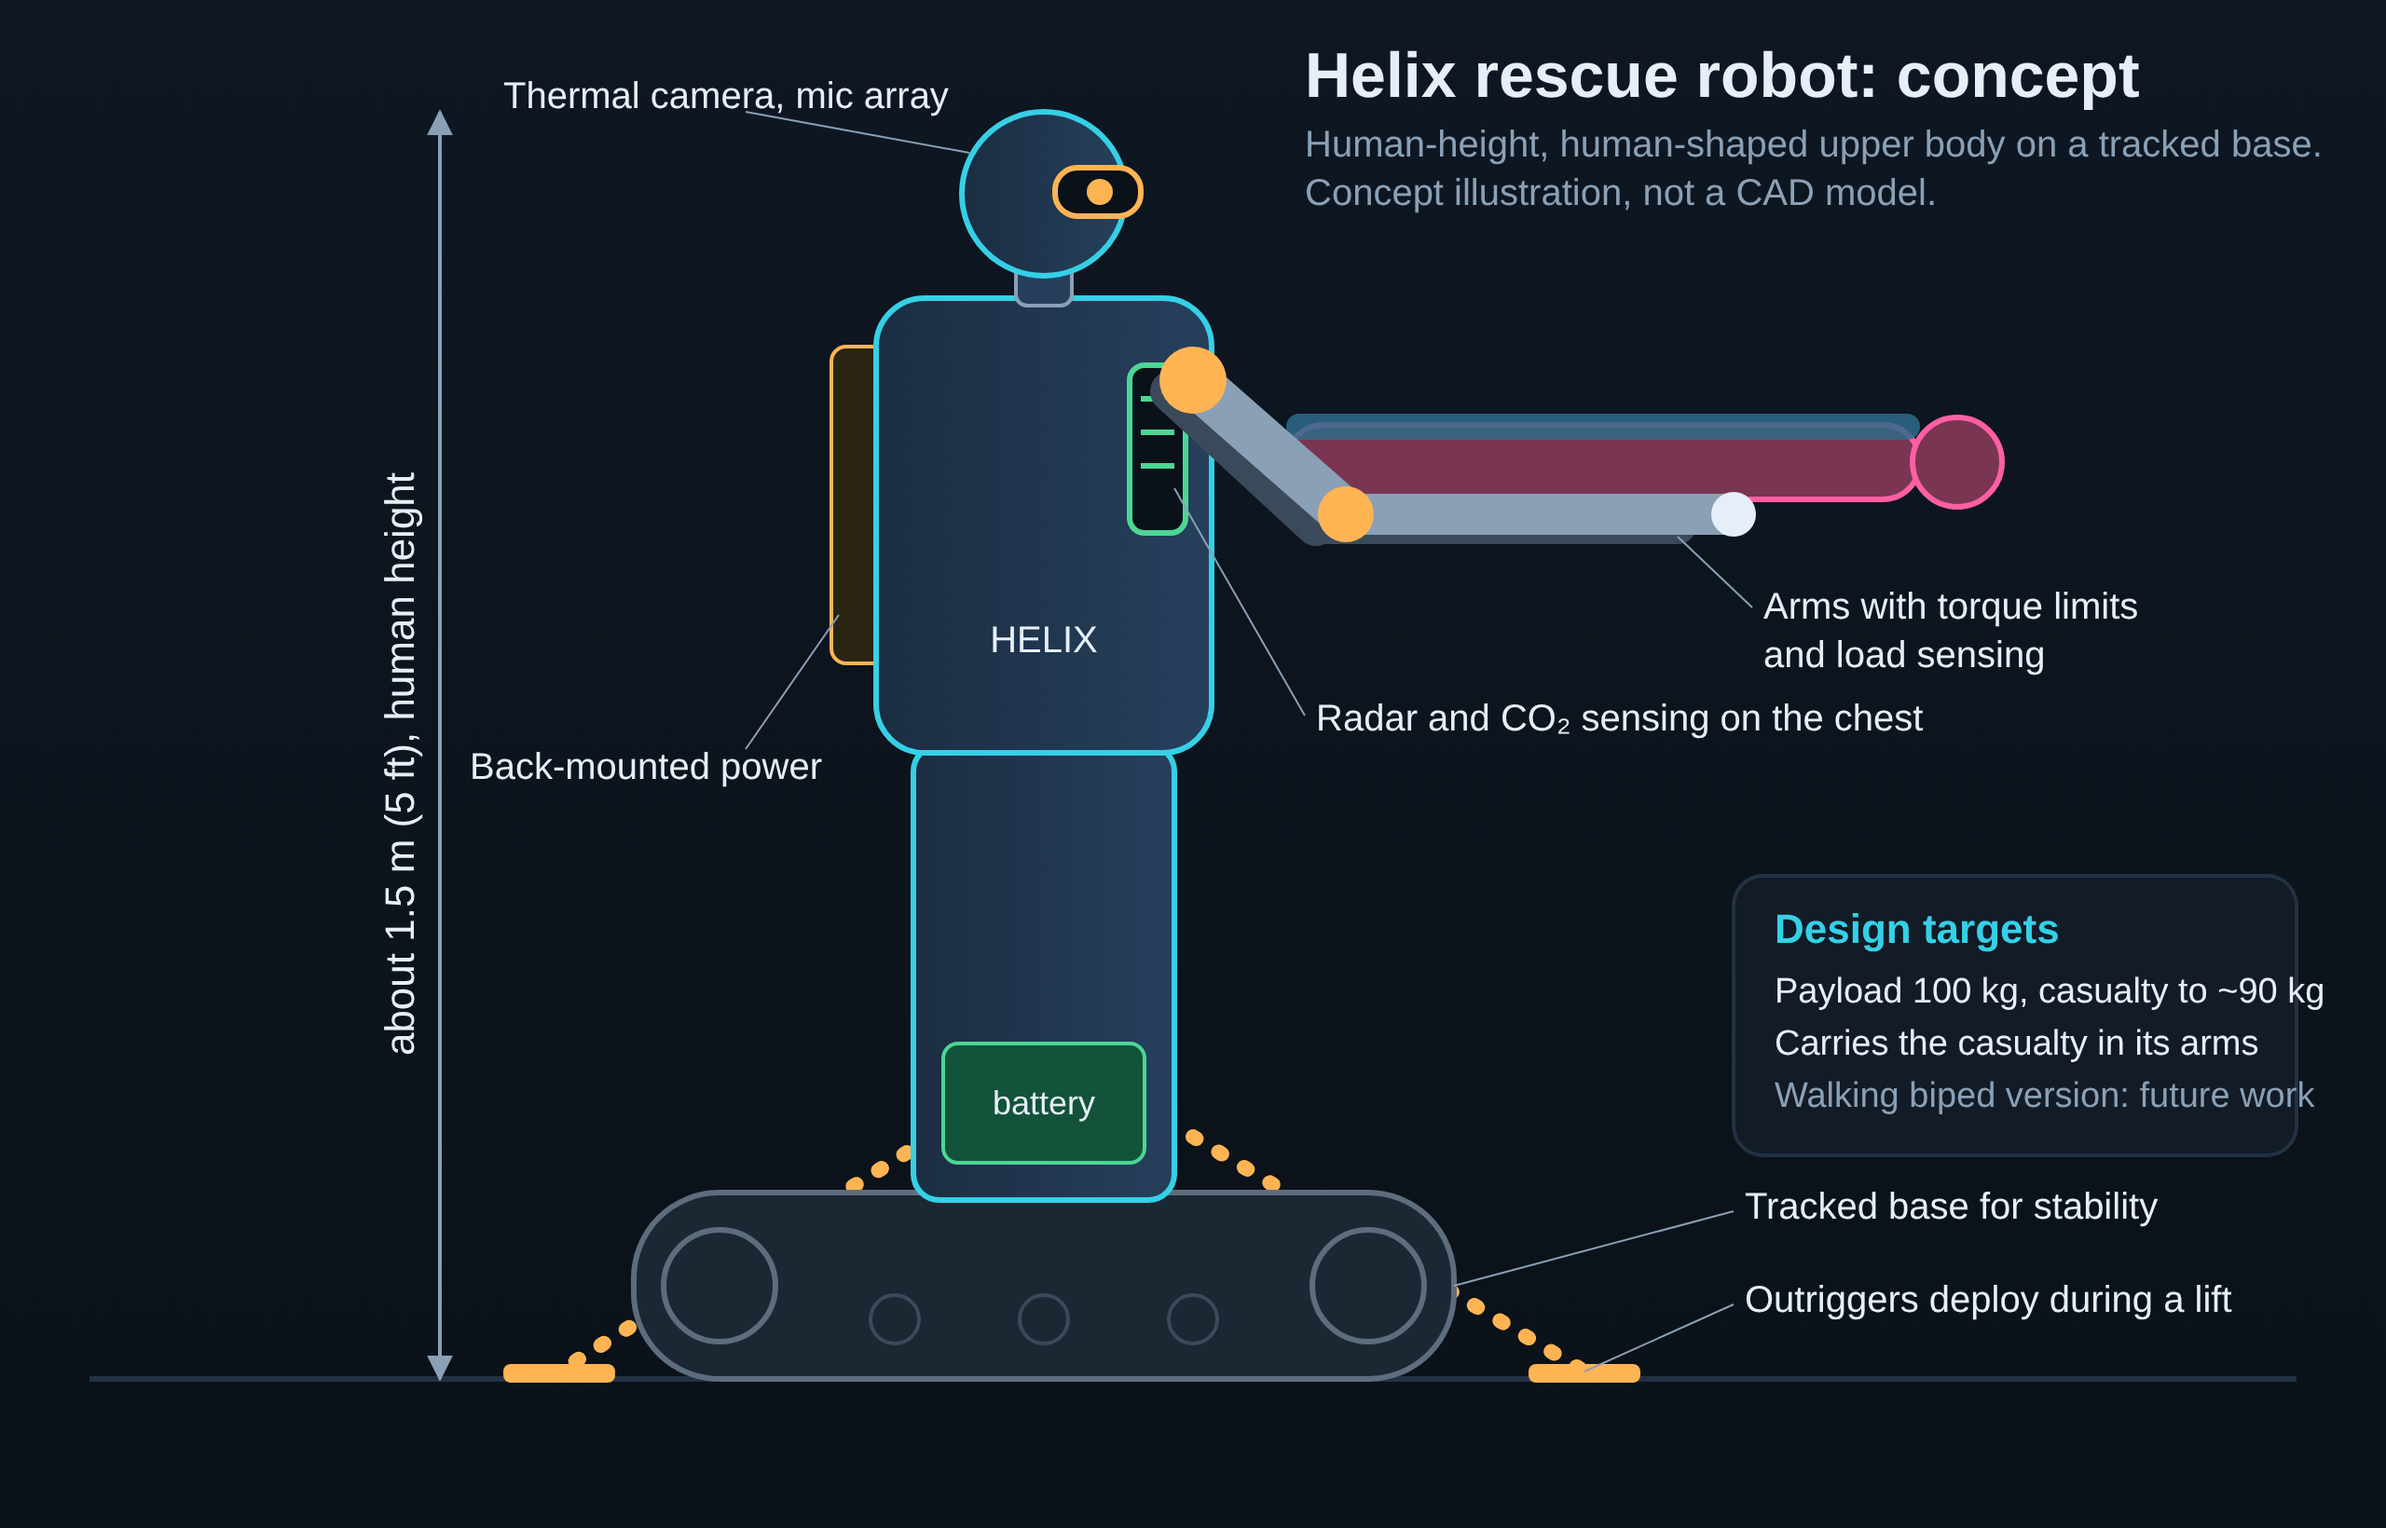
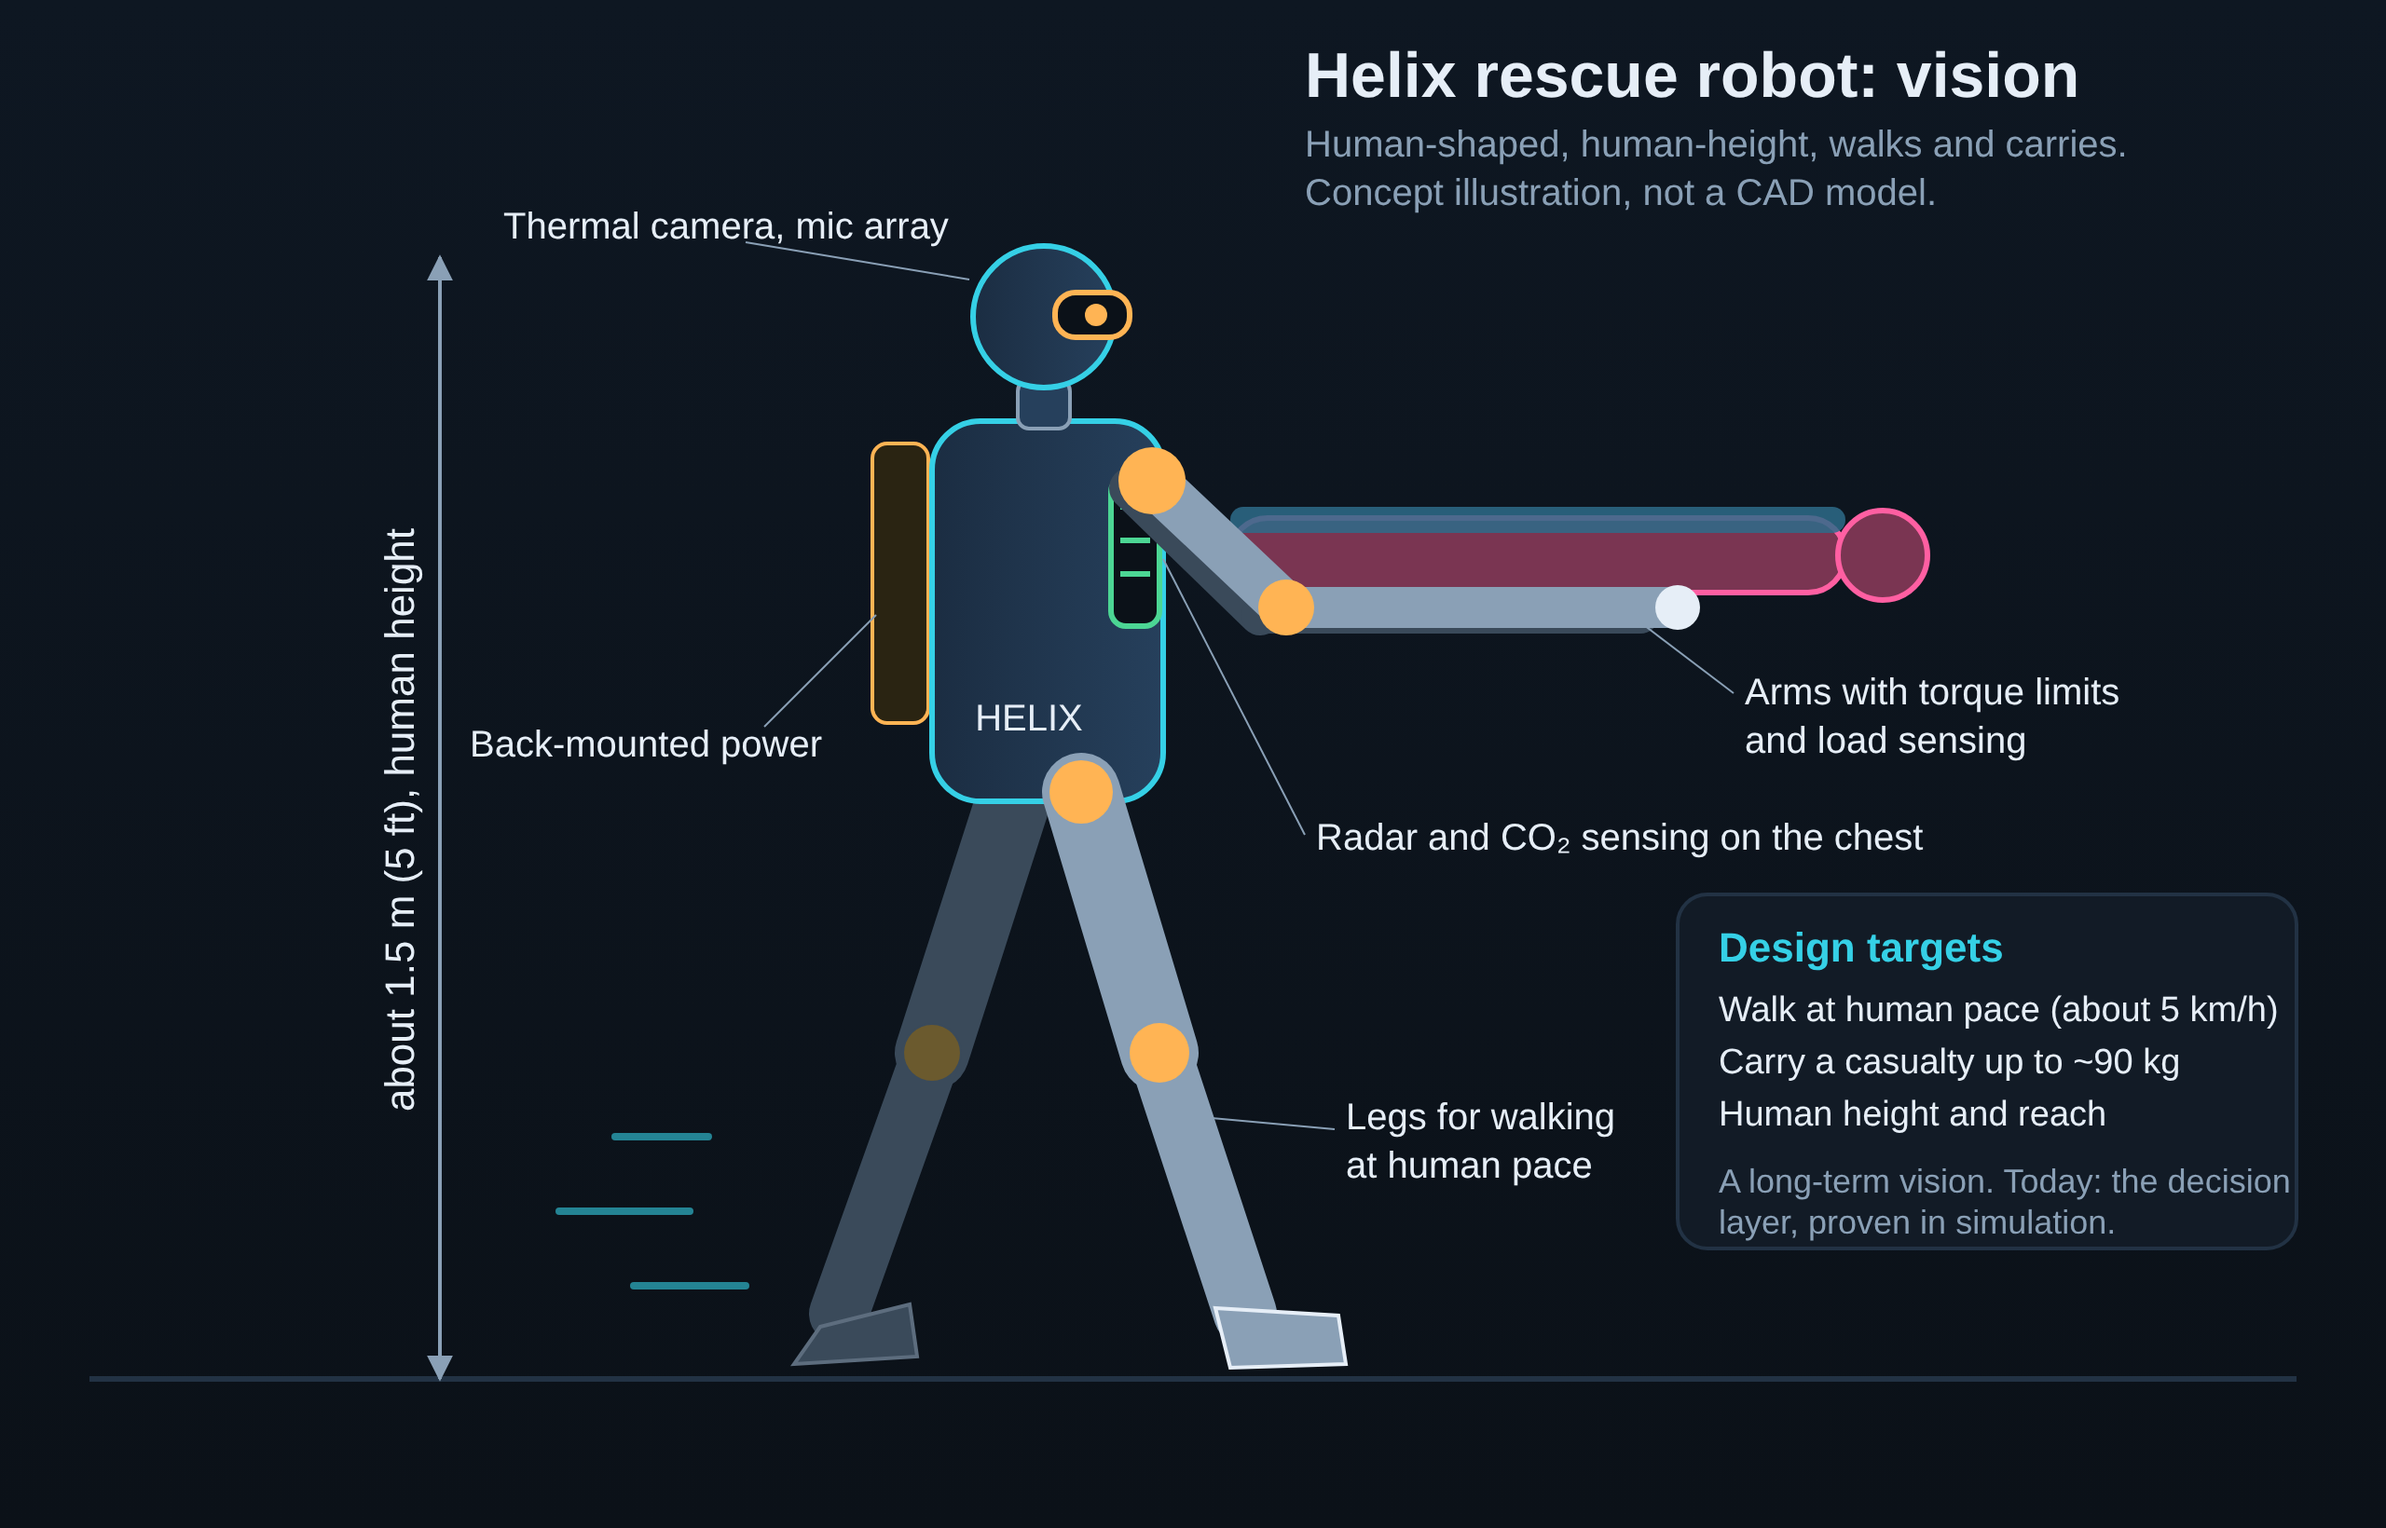
Walking humanoid rescue robot vision illustration

diff --git a/README.md b/README.md
@@ -8,10 +8,10 @@ A rescue unit in simulation finds, verifies and carries a casualty (up to about 
 
 Simplifications: the fire scenario is a single floor plan with six rooms and two exits (the planning documents mention three floors); sensors, heat, smoke and current are toy models; the unit has global knowledge of temperature (as from a building fire-alarm system).
 
-## Robot concept
-![Helix rescue robot concept](docs/robot_humanoid_concept.png)
+## Robot vision
+![Helix rescue robot vision](docs/robot_humanoid_concept.png)
 
-A concept illustration of the rescue robot the decision layer is designed for: human height (about 5 ft), a human-shaped upper body with arms that carry the casualty, sensors in the head and chest, and a tracked base with outriggers that deploy during a lift (casualty up to about 90 kg). It is not a CAD model; all dimensions are first-pass design assumptions. A walking biped version is future work.
+The long-term vision the decision layer is built for: a human-shaped, human-height (about 5 ft) rescue robot with arms and legs that walks at human pace and carries a casualty of up to about 90 kg in its arms, with sensors in the head and chest. It is a concept illustration, not a CAD model, and not something built or tested yet. What exists today is the decision layer, proven in simulation.
 
 ## Run it
 
